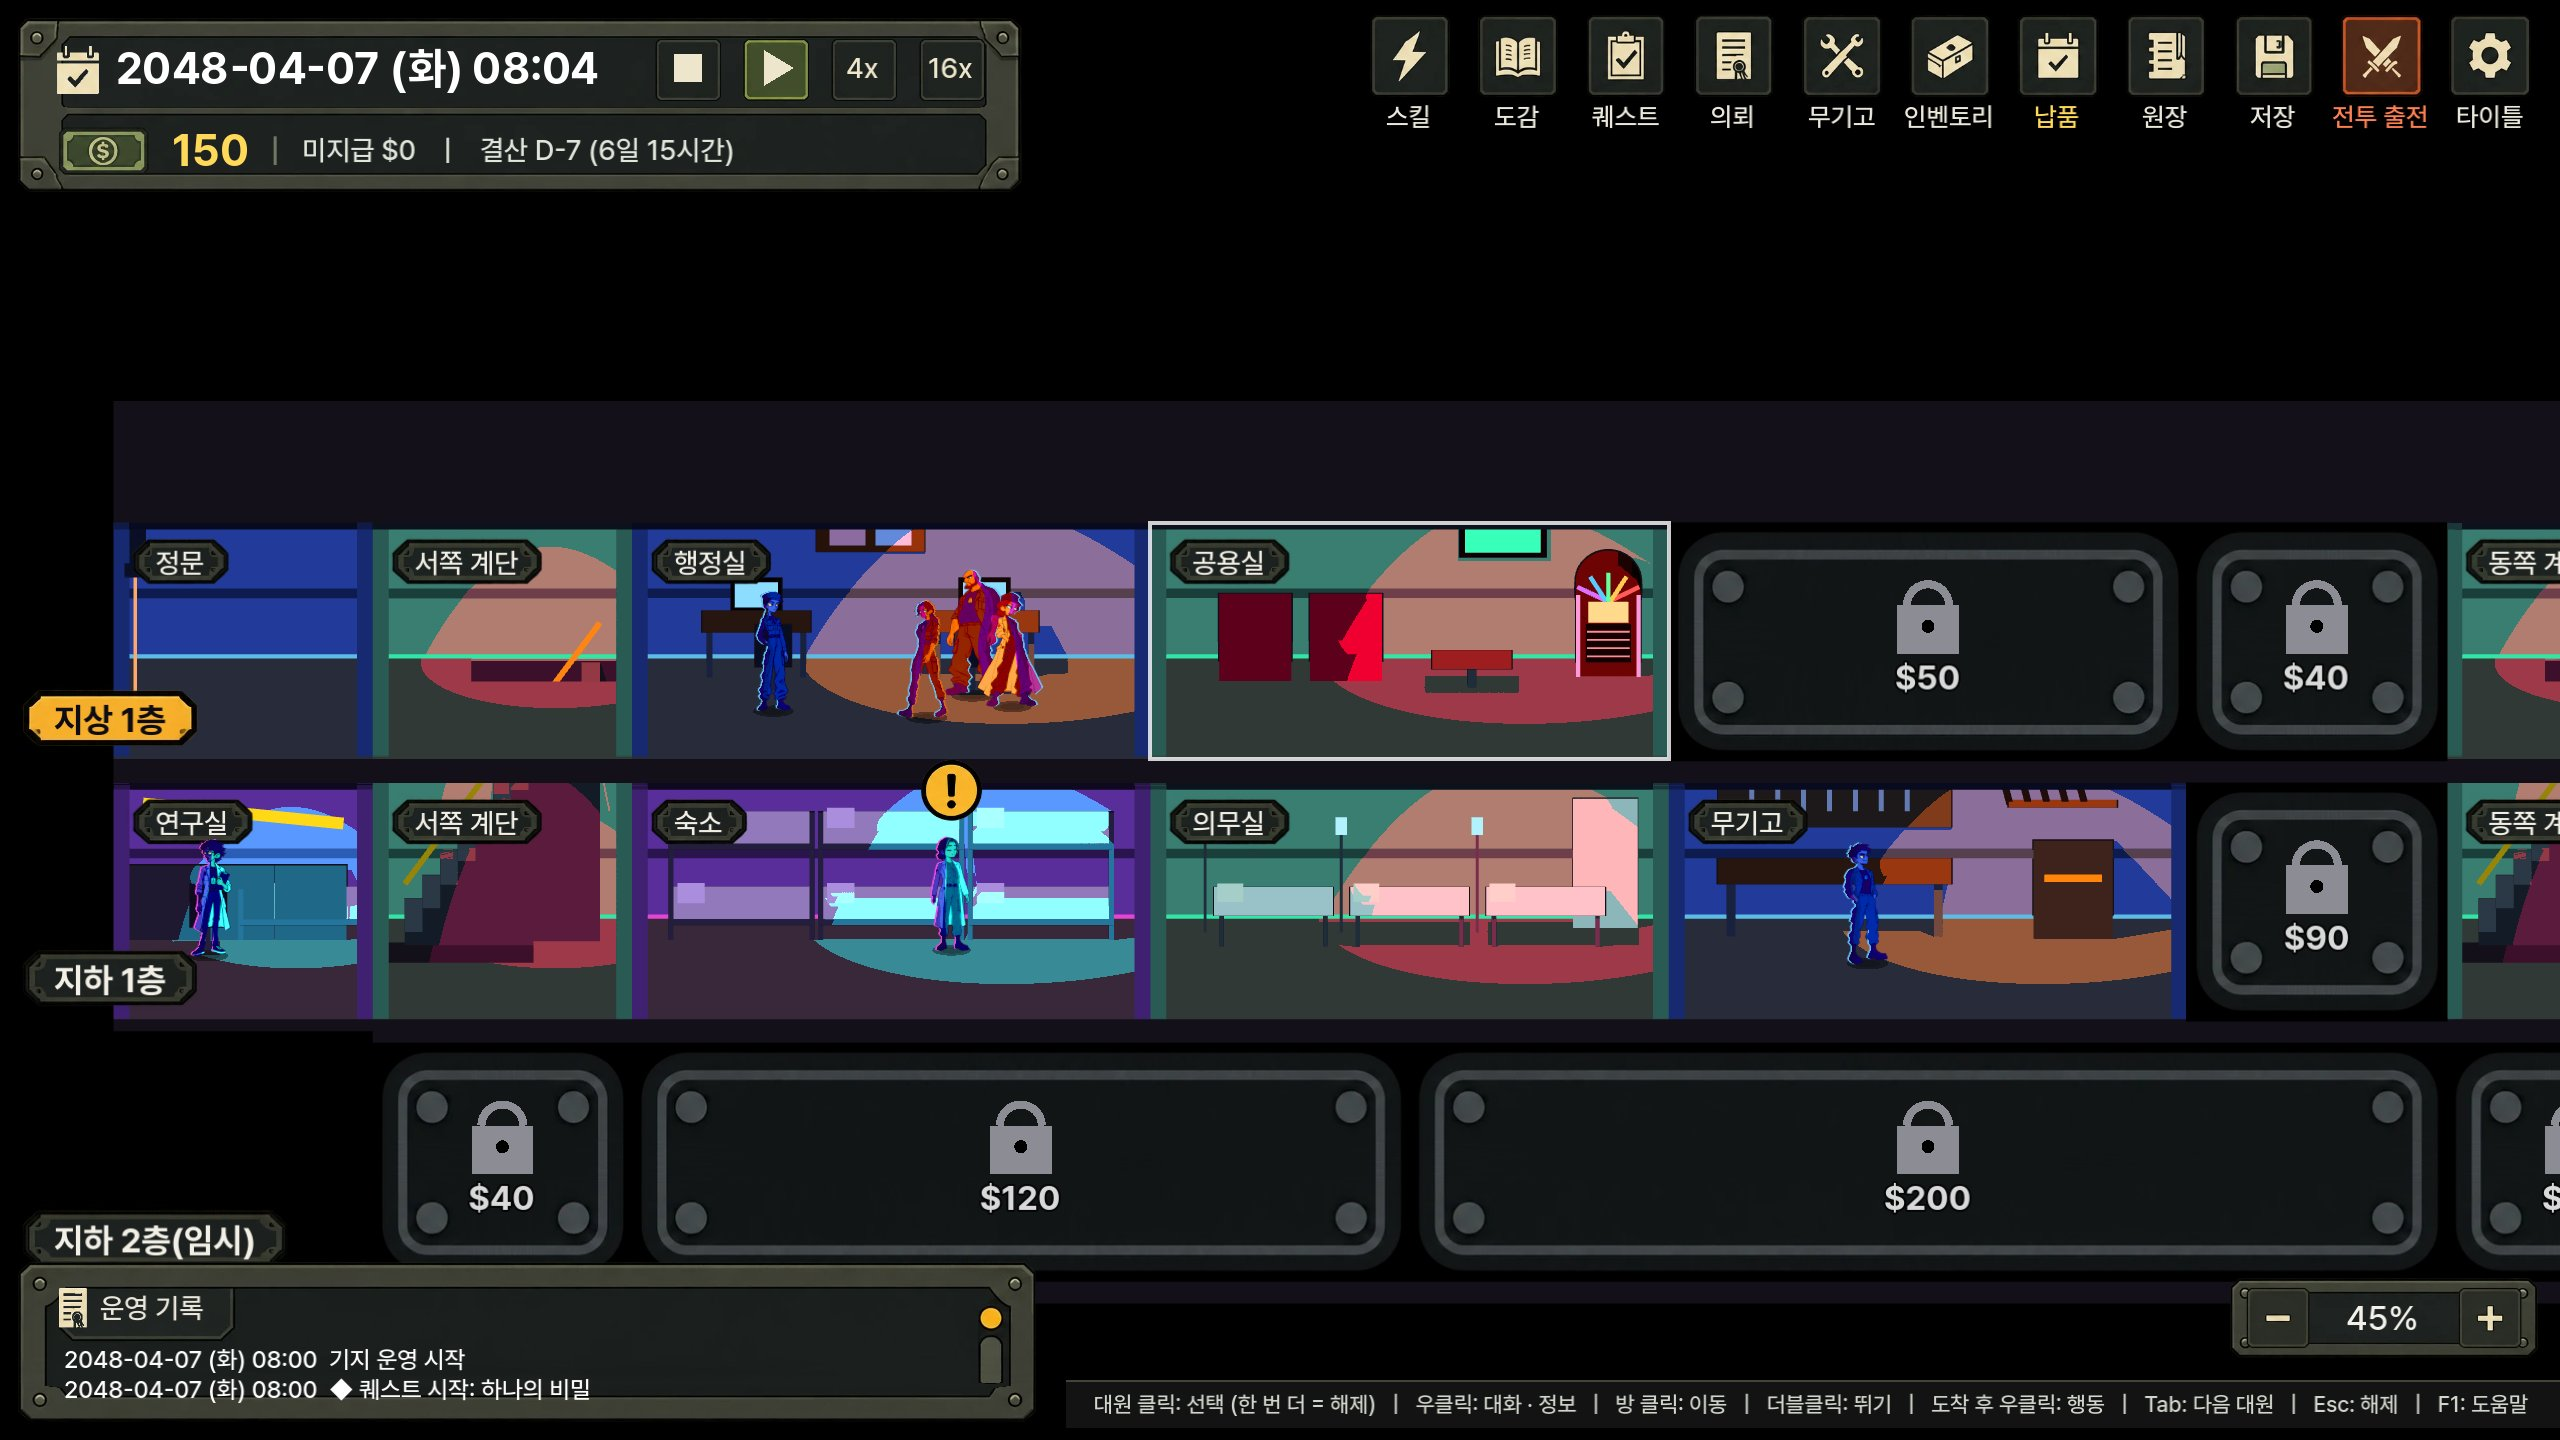
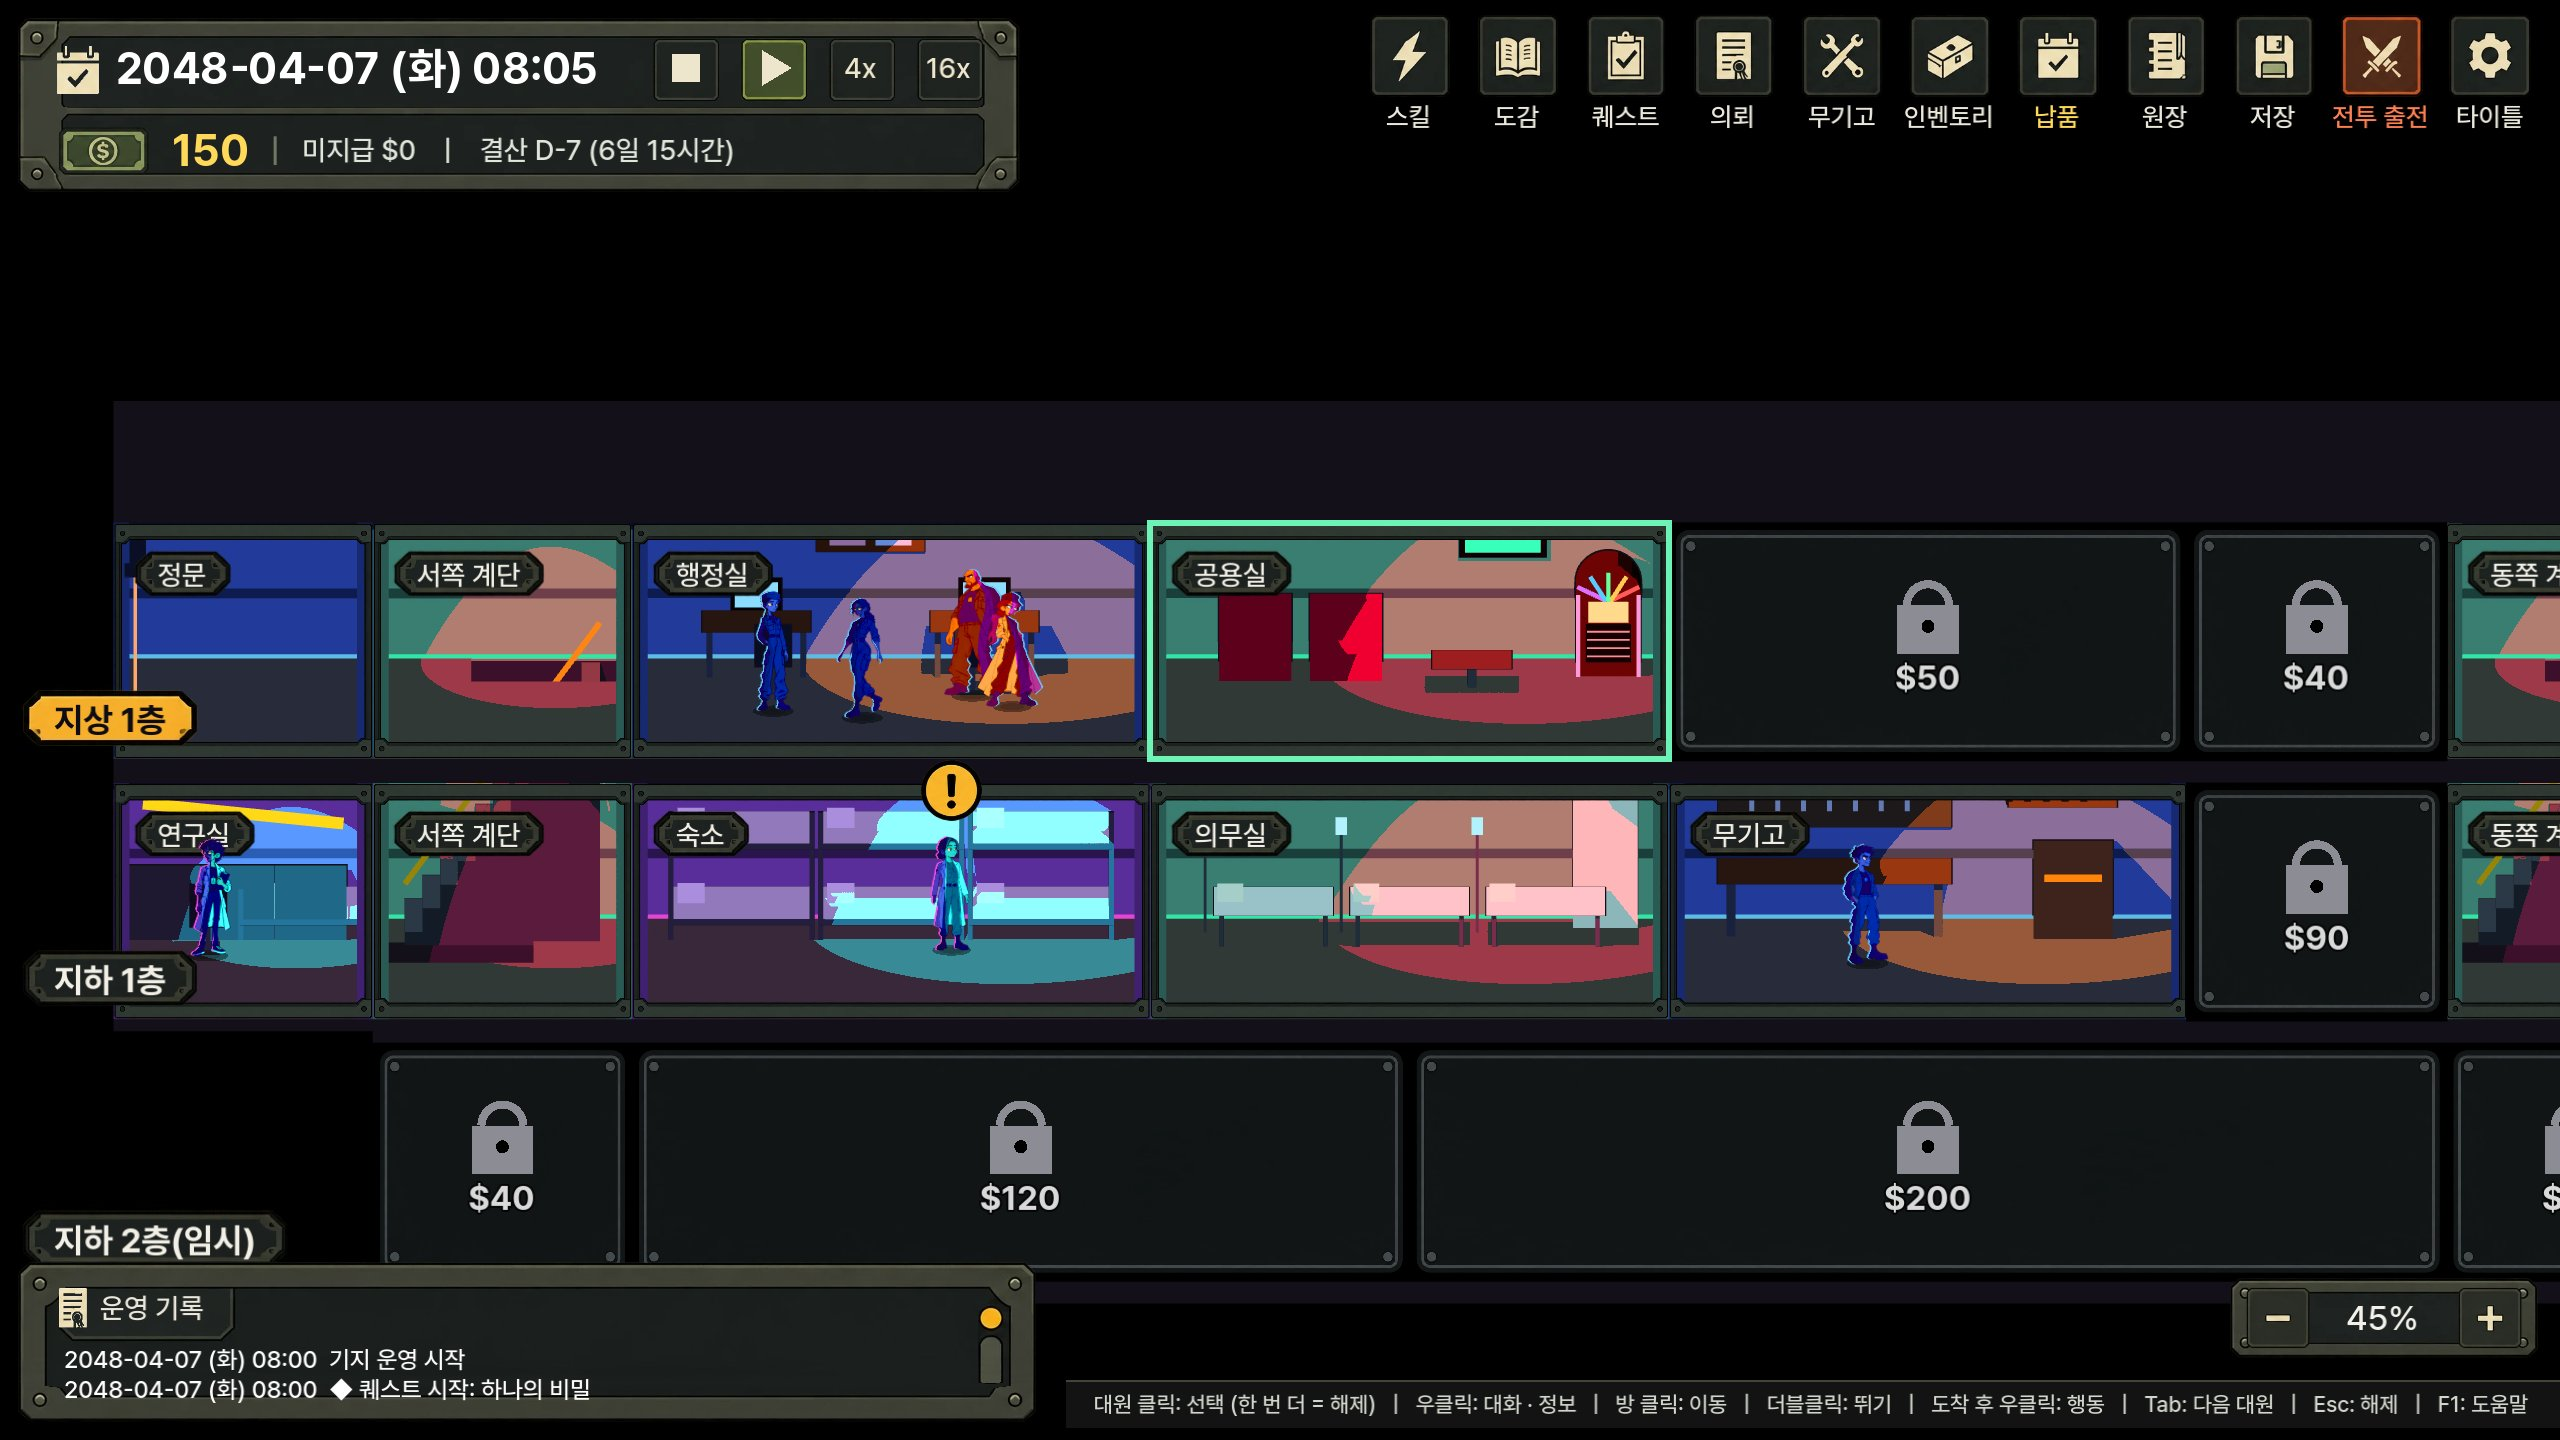
Frame unlocked rooms, shrink locked-room bolts, keep text inside UI
- Unlocked rooms get the user's ui-room frame (hollow nine-patch, thick
  top band, corner bolts); hovered rooms get a mint outline as in the
  reference.
- Locked-room panel drawn at 0.15 scale so bolts are small dots.
- Room plates shrink/clip their label to the room width and sit inside
  the frame; the hint strip shrinks spacing then font to fit; log lines
  no longer wrap past the panel.

Claude-Session: https://claude.ai/code/session_014aytw3hj7boqn3SZ5GP5ti

diff --git a/docs/design/PROTOTYPE_GDD_v1_0.md b/docs/design/PROTOTYPE_GDD_v1_0.md
@@ -4,7 +4,7 @@
 
 ## 0. 현재 구현 반영 (변경될 때마다 갱신)
 > 아래는 원 기획 이후 사용자 결정으로 바뀐 내용. 상세 결정 이력은 `00_decision_log_v1_0.md`, 아트 규격은 `../ui_art_spec.md`.
-> 마지막 갱신: 2026-10-31 (잠긴 방 = 볼트 달린 검은 패널)
+> 마지막 갱신: 2026-10-31 (열린 방 테두리 ui-room · 잠긴 방 볼트 작게 · 글자가 UI 밖으로 안 나가게)
 
 - **표현**: 캐릭터 2D **스프라이트 프레임 애니메이션**(**스프라이트 시트** `assets/characters/<id>/<동작>_<칸 수>.png`, 사용자가 제작 — 시트 없는 동작은 기본 그림 한 장. 현재: 하나·니키타·키라·단·이선·앨마 idle(기본 그림 숨쉬기) — 니키타(빨간 머리 의무병 코트)·키라(회색 군복, 최종)·하나(곱슬머리 군복·오른쪽 눈 아래 점, 최종)·앨마(흰 의무 가운)는 새 그림으로 교체되어 예전 걷기·피격·공격 시트는 지움) + 배경 3D(실광원·그림자). Skeleton2D 리그·3D 캐릭터 전환은 제거.
   칠 방식: **전 캐릭터 네온 칠**(선화는 원화 그대로, 면은 원화 밝기대로 조명색으로 덮음 — 어두운 면은 깊은 보라, 밝은 면은 조명색). `character.json` `"style": "classic"` 이면 예전 셀 칠, `"neon_gradient"` 0~1 = 몸 위→아래 색상 그라데이션(기본 끔).
@@ -29,7 +29,7 @@
 - **인간 적군 AU군 거한** (bigman): 근접 거한(키 205cm, HP 120, 방어 3, AI aggressive) [임시]. 모션 9종 + idle · 지침 리깅. 쓰러진 그림(dead)은 이제 몸이 발밑 그림자 위에 놓이게 (몸 두께 30% 아래로).
 - **전투 겹침 정리**: 체력 · AP 칸과 상태 배지는 그 유닛 바로 위 층 (앞줄 캐릭터에 가려짐), 쓰러진 캐릭터는 안 보임. 쓰러진 캐릭터는 살아 있는 캐릭터 뒤 층, 조금 뒤로 물러나 눕고 가운데 열은 몸 두께만큼 더 뒤로 → 쓰러진 몸끼리 안 겹침. 누운 몸 길이는 선 키와 같게 (긴 그림은 작게 그림 — 단 · 하나는 원래 크기 유지).
 - **기지 조작**: 대원 클릭 = 선택, **선택한 대원을 한 번 더 클릭 = 선택 해제** (대화는 우클릭 메뉴). 선택해도 오른쪽 아래 카드는 안 뜸 — **우클릭 → '정보 보기'** 를 누르면 화면 가운데 창 (모든 대원; 전투 대원은 장비 · 스킬 트리 포함). 기지 로그창은 오른쪽 위 모서리 아이콘(UI 패키지 schedule)으로 접기 · 펴기.
-- **기지 UI v2** (사용자 제공 UI 패키지 + 레퍼런스 화면, 원본 art_src/ui/ui_package_v2.webp · ref_outgame_v2.webp): 왼쪽 위 = 두 줄 패널(달력 · 날짜 · 속도 버튼 ■ ▶ 4x 16x — 지금 속도는 초록 / 지폐 · 잔액 | 미지급 | 결산 D-day), 오른쪽 위 = 새 아이콘 타일 11개(전투 출전만 주황), 층 표시 = 지금 보는 층 금색 태그 · 나머지 어두운 태그, 방 이름 = 어두운 태그, 운영 기록 = 머리 탭 · 스크롤 막대 · 주황 점 패널(2줄, 머리 탭 · 주황 점 = 접기, 접으면 "운영 기록 ▸" 탭), 오른쪽 아래 = − 100% + 패널, 맨 아래 = 조작 안내 띠(| 구분), 머리 위 ! = 노란 동그라미, 카세트 ▲▼ 삼각형. **잠긴 방** = 볼트 달린 검은 패널(사용자 제공) 위에 자물쇠 · 해금 비용.
+- **기지 UI v2** (사용자 제공 UI 패키지 + 레퍼런스 화면, 원본 art_src/ui/ui_package_v2.webp · ref_outgame_v2.webp): 왼쪽 위 = 두 줄 패널(달력 · 날짜 · 속도 버튼 ■ ▶ 4x 16x — 지금 속도는 초록 / 지폐 · 잔액 | 미지급 | 결산 D-day), 오른쪽 위 = 새 아이콘 타일 11개(전투 출전만 주황), 층 표시 = 지금 보는 층 금색 태그 · 나머지 어두운 태그, 방 이름 = 어두운 태그, 운영 기록 = 머리 탭 · 스크롤 막대 · 주황 점 패널(2줄, 머리 탭 · 주황 점 = 접기, 접으면 "운영 기록 ▸" 탭), 오른쪽 아래 = − 100% + 패널, 맨 아래 = 조작 안내 띠(| 구분), 머리 위 ! = 노란 동그라미, 카세트 ▲▼ 삼각형. **잠긴 방** = 볼트 달린 검은 패널(사용자 제공, 볼트는 작은 점 크기) 위에 자물쇠 · 해금 비용. **열린 방** = ui-room 테두리(위 띠 두꺼운 어두운 테두리 · 네 귀 볼트), 마우스를 올린 방 = 민트 테두리. 방 이름표 · 조작 안내 · 기록 줄은 틀 밖으로 안 나감(줄이거나 자름).
 - **기지 클릭 판정**: 대원은 **몸 그림의 불투명 픽셀** 어디를 눌러도 선택 (예전 사각형은 상반신을 놓침, 빈 곳은 안 잡힘). 머리 위 **'!' 를 누르면 요청 대화**(수락). **방 빈 곳 우클릭** = 그 방 메뉴 → '정보 보기' = 도감 '기지 시설' 탭의 그 방 (선택한 대원이 그 방에 있으면 대원 행동도 같은 메뉴에).
 - **날짜 속도 버튼** (사용자 제공 그림): 정지 = ■ 버튼, 1배 = ▶ 버튼, 4배 · 16배 = 빈 버튼 + 글자. 지금 속도는 금빛, 나머지는 살짝 어둡게.
 - **배경음악 · 주크박스**: 배경음악 5곡 (`assets/audio/bgm/`, 목록 · 제목 · 음량 `data/bgm.json`), 기지에 들어오면 재생 · 장면이 바뀌어도 이어짐 · 곡이 끝나면 다음 곡. **공용실 오른쪽 주크박스**(대원을 선택하지 않은 상태에서 주크박스 어디든 — 마우스를 올리면 금색 테두리 + '클릭: 음악')를 누르면 **주크박스 바로 왼쪽에 음악 카세트 창**(카메라를 움직여도 따라감)(사용자 제공 그림) — 빈 칸에 지금 곡 제목, 위 ▲ = 이전 곡, 아래 ▼ = 다음 곡. 주크박스를 다시 누르면 닫힘.

diff --git a/docs/design/00_decision_log_v1_0.md b/docs/design/00_decision_log_v1_0.md
@@ -571,6 +571,11 @@
 
 - **2026-10-31 잠긴 방 패널** (사용자 제공 그림, 원본 art_src/ui/locked_room_panel.webp → assets/ui/outgame/v2/panel_locked.png): 잠긴 방 앞면(단면 사각형 조금 안쪽)을 둥근 모서리 · 네 귀 볼트 검은 패널로 덮고 그 위에 자물쇠 · 가격. 9칸 늘리기(모서리 · 볼트 고정), 크게 축소하면 모서리도 같이 작게. 3D 쪽 검은 판은 그대로(안쪽 가림). 확인용 `--base_ui=zoom_out`(건물 전체).
 
+- **2026-10-31 방 테두리 · 잠긴 방 볼트 · 글자 맞춤** (사용자 레퍼런스 art_src/ui/ref_outgame_v3.webp)
+  - 잠긴 방 패널 그림 배율 0.5 → 0.15 (볼트 ≈ 5px 점, 레퍼런스처럼 얇은 테두리).
+  - 열린 방 테두리 = 사용자 제공 ui-room (원본 art_src/ui/room_frame.png → assets/ui/outgame/v2/room_frame.png, 가운데 비움), 9칸 늘리기 배율 0.11 (위 띠 ≈ 8px). 마우스를 올린 방 테두리 = 민트(레퍼런스).
+  - 글자: 방 이름표는 방 폭보다 길면 글자를 줄이고(최소 10) 그래도 길면 자름, 이름표는 테두리 안쪽. 조작 안내 띠는 띠 폭에 맞게 구분 간격 → 글자 크기 순으로 줄임. 운영 기록 긴 줄은 다음 줄로 넘기지 않고 패널 안에서 자름.
+
 ## 검증 중 (확정 아님)
 - **배경 3D + 캐릭터 2D 하이브리드** (2026-10-25 적용): 배경은 3D 방을 2D 카메라와 같은 투영으로 렌더, 캐릭터 라이팅은 실제 광원 위치 기준
   (빛 쪽 얼굴·몸을 광원색으로 밝힘 + 빛이 뒤에서 오면 같은 쪽 가장자리 림 + 바닥 그림자). 캐릭터 2D(리그)는 확정 사항 유지. (이전 2D 배경 판은 2026-10-27 제거.)

diff --git a/README.md b/README.md
@@ -346,7 +346,7 @@ git 이 없는 설치(zip)는 같은 설치 명령을 다시 실행하면 최신
 - **기지 UI v2** (사용자 제공 UI 패키지 `art_src/ui/ui_package_v2.webp` + 레퍼런스 `art_src/ui/ref_outgame_v2.webp` → 조각 `assets/ui/outgame/v2/`): 두 줄 날짜 패널 · 새 아이콘 타일 · 금색/어두운 층 · 방 태그 · 운영 기록 패널(머리 탭 · 주황 점 = 접기) · − 100% + · 조작 안내 띠 · ! 동그라미.
 
 ![기지 UI v2](docs/screenshots/outgame_ui_v2.jpg)
-- **잠긴 방** = 볼트 달린 검은 패널(사용자 제공, `assets/ui/outgame/v2/panel_locked.png`) + 자물쇠 · 해금 비용. 확인 `--base_ui=zoom_out`.
+- **잠긴 방** = 볼트 달린 검은 패널(사용자 제공, `assets/ui/outgame/v2/panel_locked.png`, 볼트 작은 점) + 자물쇠 · 해금 비용, **열린 방** = ui-room 테두리(`room_frame.png`). 확인 `--base_ui=zoom_out`.
 
 ![잠긴 방 패널](docs/screenshots/outgame_locked_rooms.jpg)
 
